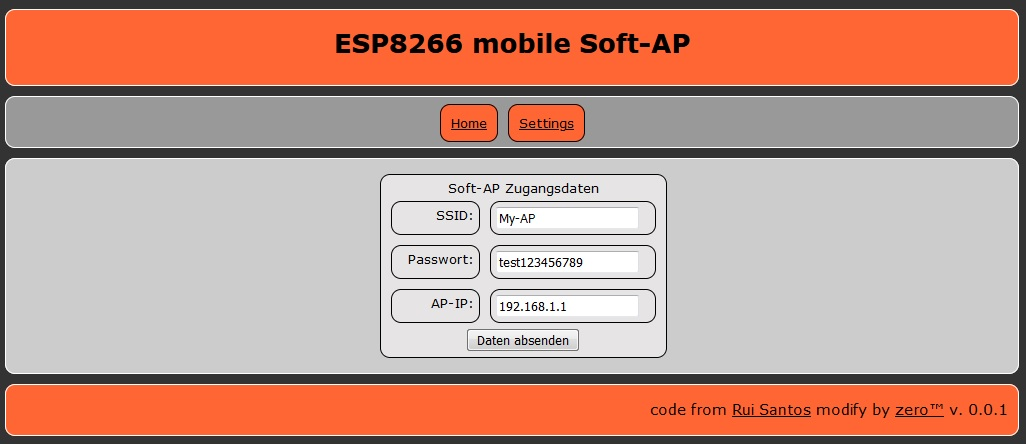
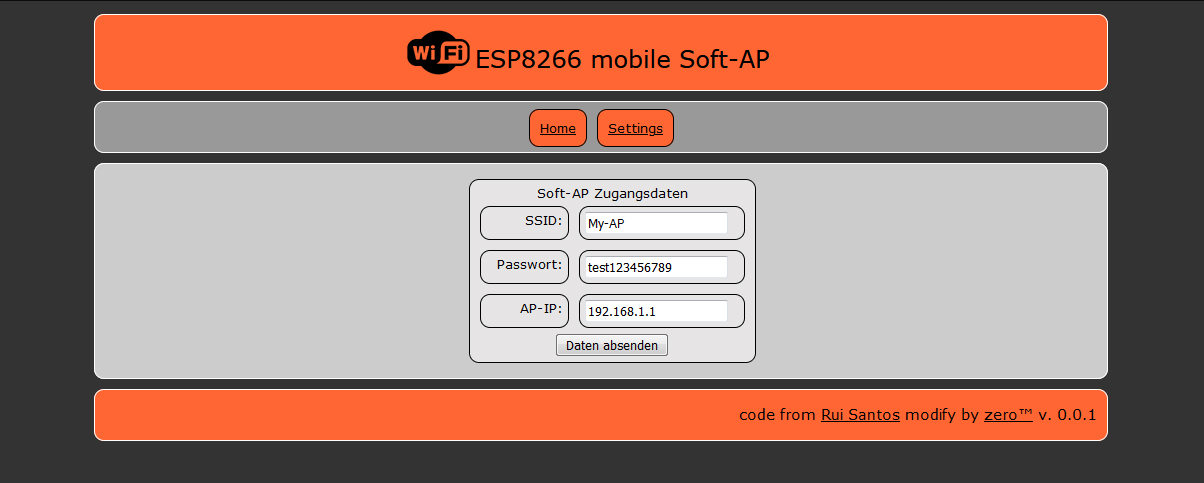
webpanel-fixes
-logo
-css
-html

diff --git a/src/html/text.html b/src/html/text.html
@@ -137,7 +137,7 @@ p {
     margin: 5px;
     padding: 0px 10px 10px 0px;
     text-align: right;
-    font-size: 15px;
+    font-size:x-large ;
 }
 
 #link_button {

diff --git a/src/html/sets.h b/src/html/sets.h
@@ -24,7 +24,7 @@ p {
 #headerwrap {
     width: 100%%;
     float: left;
-    margin: 0 auto;
+/*    margin: 0 auto;*/
 }
 
 #header {
@@ -34,6 +34,12 @@ p {
     border: 1px solid #ffffff;
     margin: 5px;
     text-align: center;
+}
+#header_text {
+    text-align: center;
+    font-size: x-large;
+    height: 75px;
+    margin: auto 5px;
 }
 
 #navigationwrap {
@@ -165,6 +171,15 @@ p {
       a:active {
         color: #ffff00;
       }
+#logo {
+/*  vertical-align: text-top;*/
[1 lines of base64/hex data omitted]
+ width:400px;
+ height:75px;
+ display: inline-block;
+ background-position: left;
+ background-repeat: no-repeat;
+}
 
 </style>
 </head>
@@ -172,7 +187,10 @@ p {
   <div id="wrapper">
     <div id="headerwrap">
       <div id="header">
-        <h1>ESP8266 mobile Soft-AP</h1>
+              <span id="header_text">
+        <span id="logo"><br>
+         &nbsp;&nbsp;&nbsp;&nbsp;&nbsp;ESP8266 mobile Soft-AP
+        </span>
       </div>
     </div>
     <div id="navigationwrap">

diff --git a/README.md b/README.md
@@ -10,4 +10,9 @@ addet more infos on serial console.<br>
 import to platform.io<br>
 addet webpanel with config & infos<br>
 <br>
-<img src="img/settings.jpg" width="100%">
+Browser (win/Firefox)<br>
+<img src="img/settings.jpg" width="100%"><br>
+<br>
+Mobile (android/chrome)<br>
+<img src="img/settings_mobile.jpg" width="100%"><br>
+
